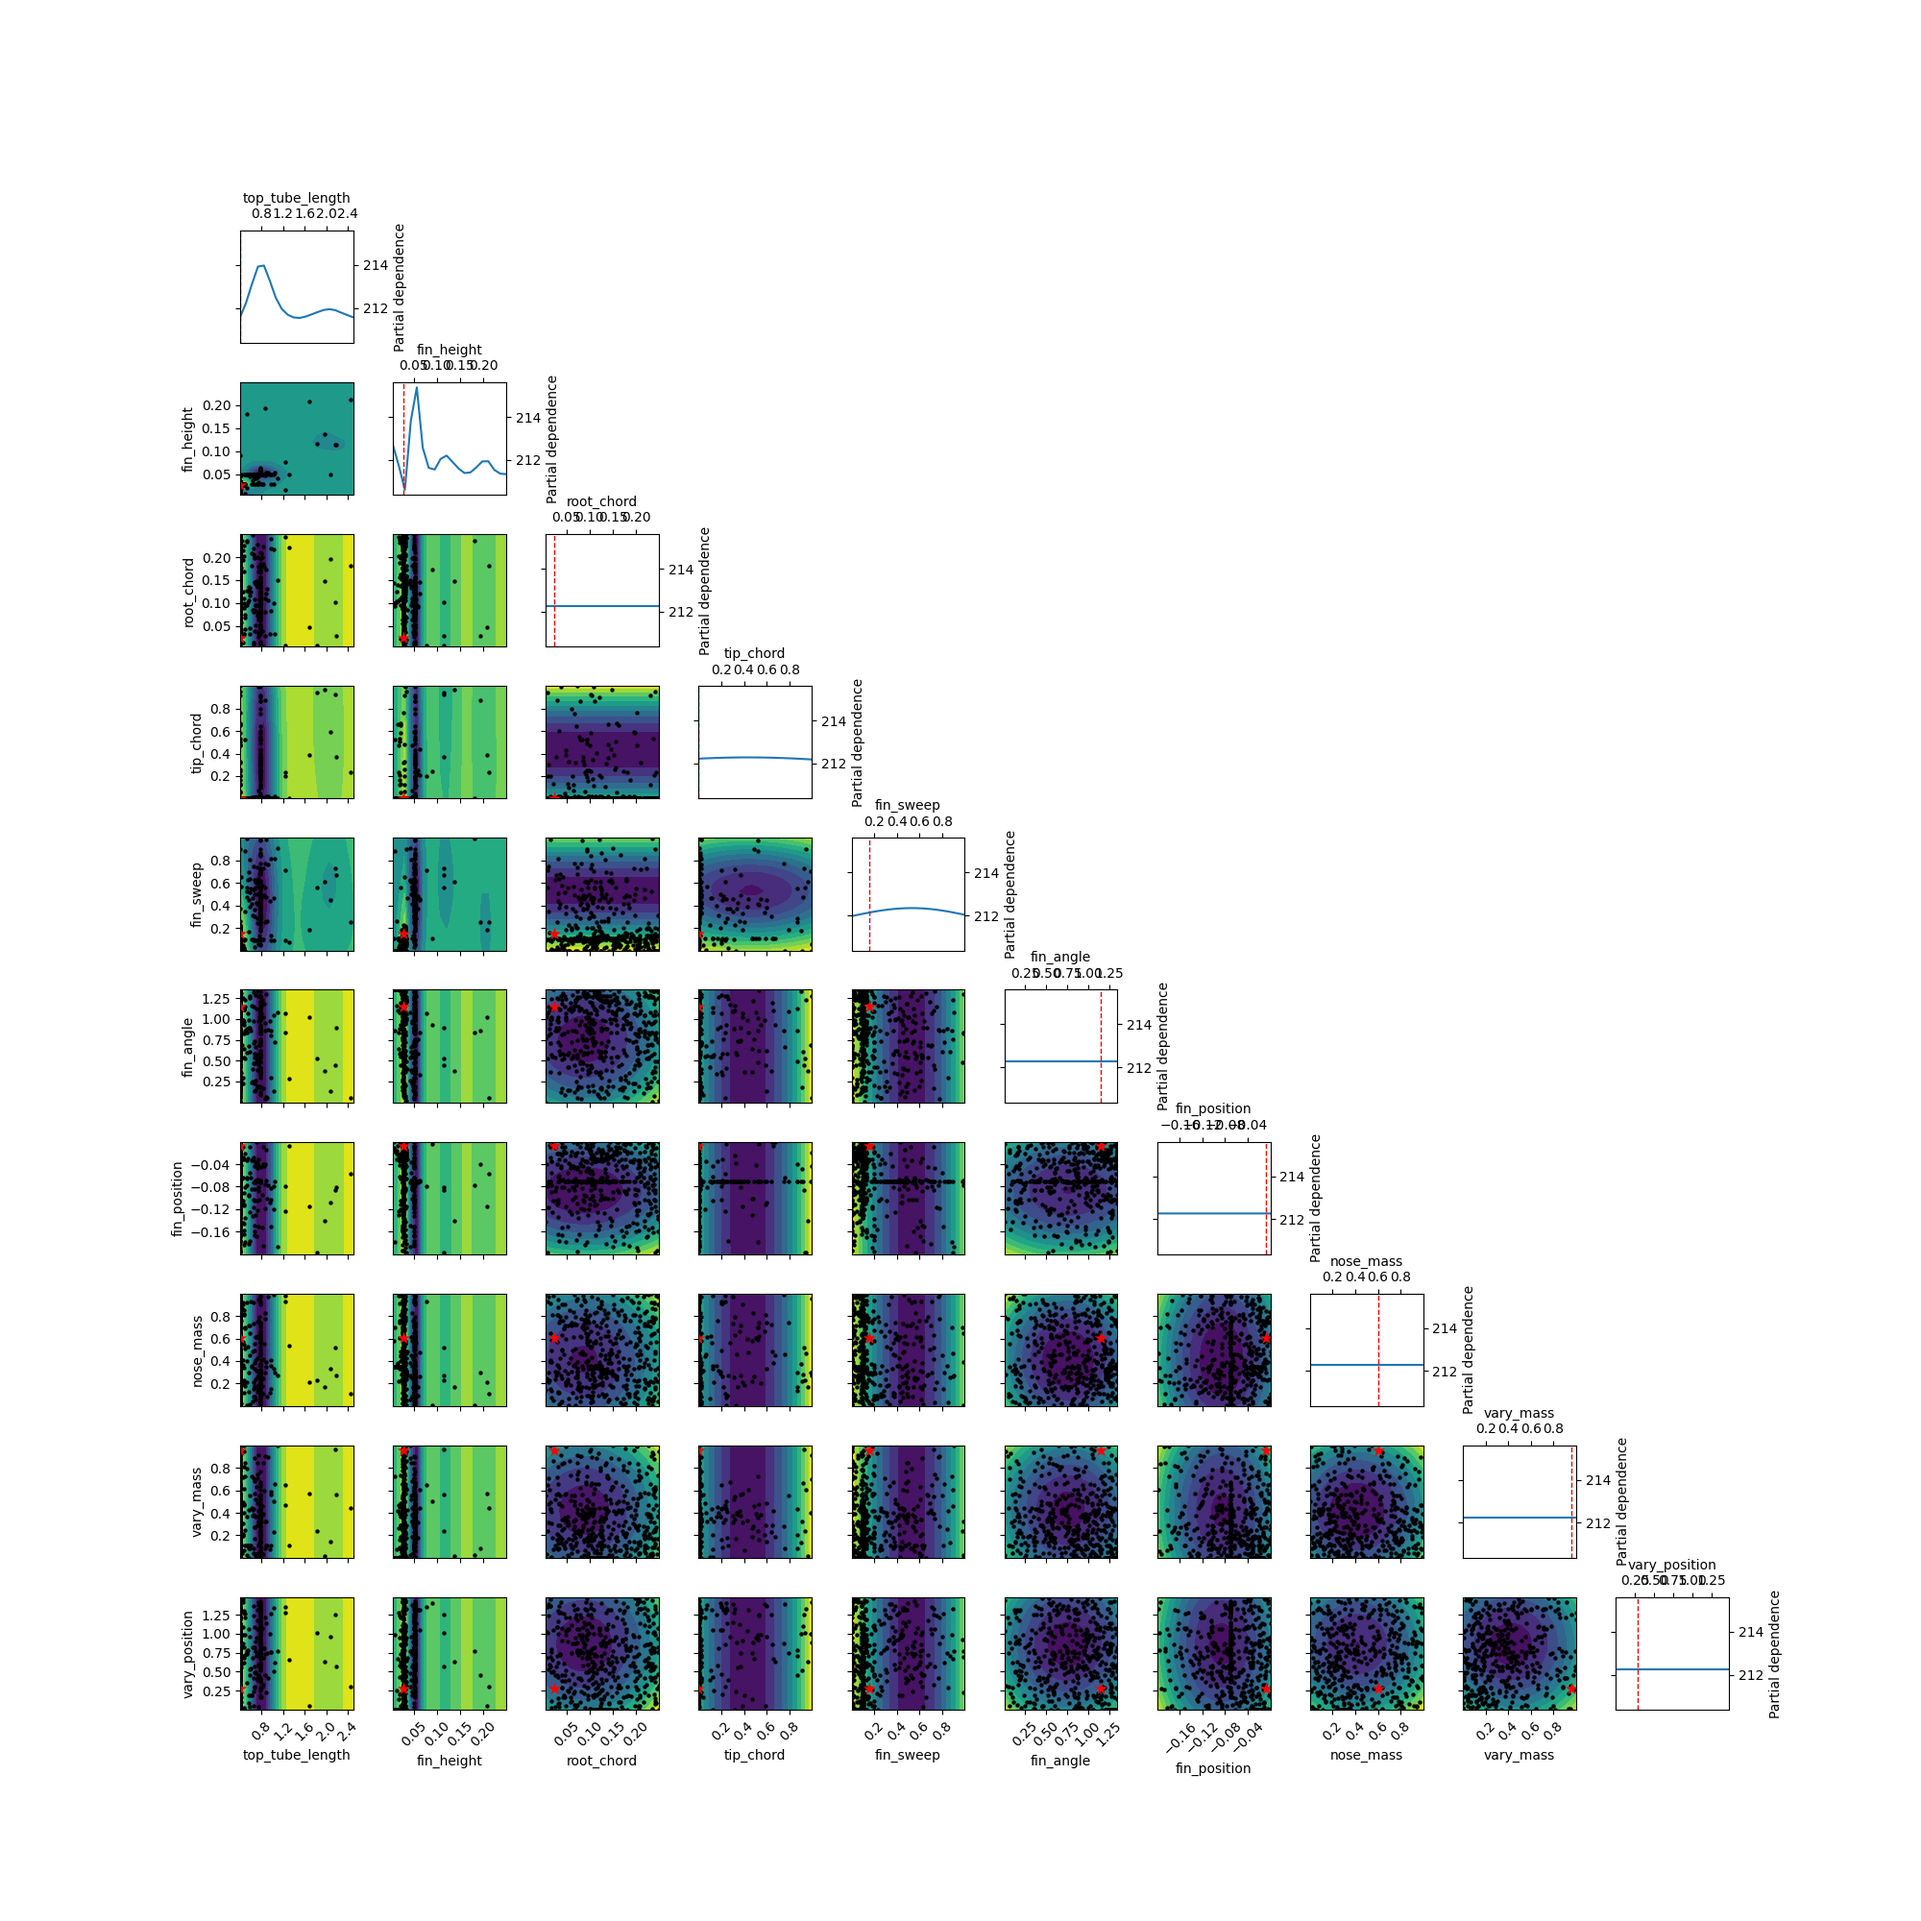
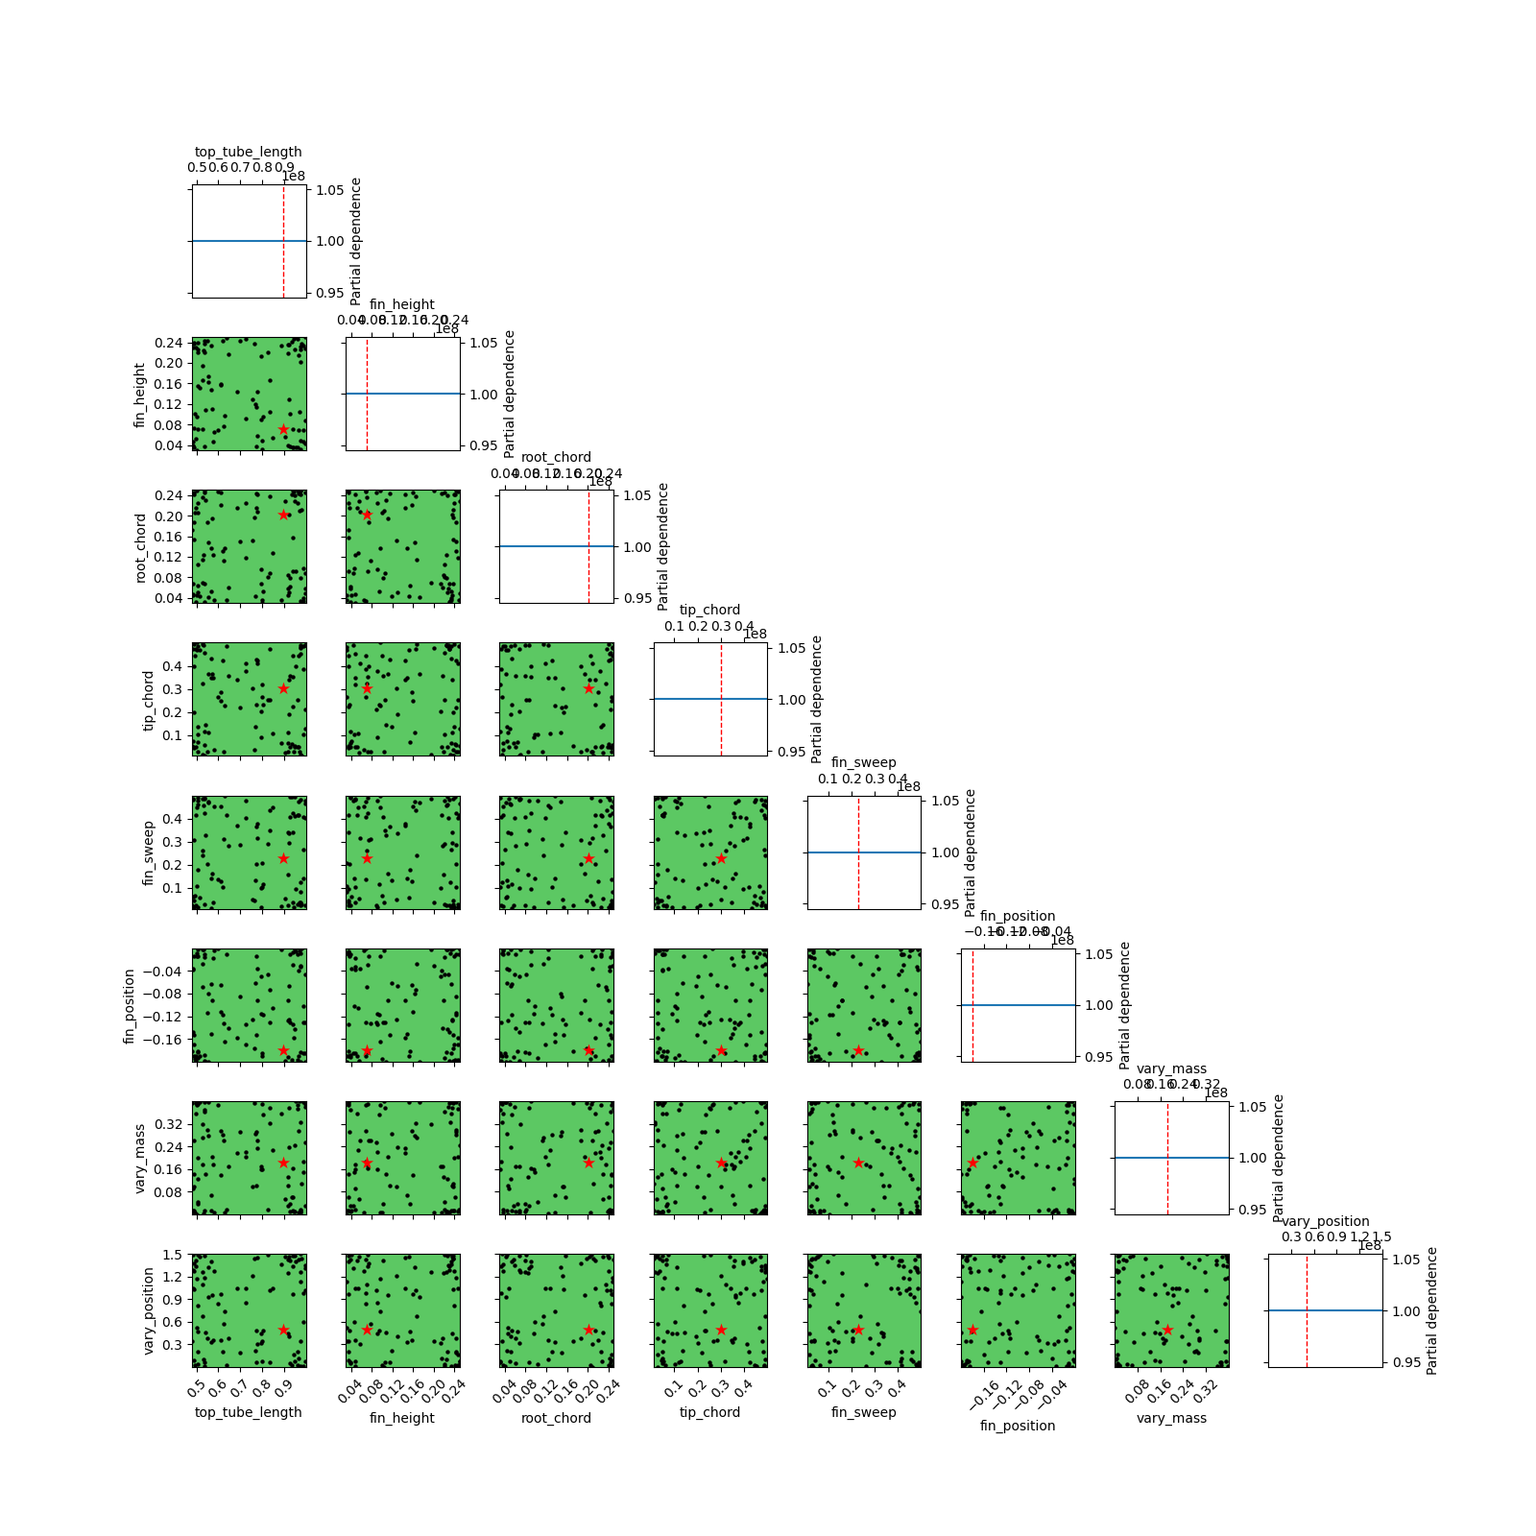
fix for search space and inplict geometry and testing func

Changed region(s): [[0.0625, 0.0938, 0.9375, 0.9375]]

diff --git a/Optimizer.py b/Optimizer.py
@@ -32,15 +32,15 @@ class Optimizer:
         self.setup_components(self.rocket)
         # Search Space
         self.space = [
-            Real(0.48, 2.5, name='top_tube_length'),    # Tube m
-            Real(0.005, 0.25, name='fin_height'),     # Height m
-            Real(0.005, 0.25, name='root_chord'),   # Root Chord m
-            Real(0.005, 1.0, name='tip_chord'),      # Tip Chord m
-            Real(0.005, 1.0, name='fin_sweep'),      # Sweep m
-            Real(0.0, 1.3, name='fin_angle'),      # Angle rads
+            Real(0.48, 1, name='top_tube_length'),    # Tube m
+            Real(0.03, 0.25, name='fin_height'),     # Height m
+            Real(0.03, 0.25, name='root_chord'),   # Root Chord m
+            Real(0.01, 0.5, name='tip_chord'),      # Tip Chord m
+            Real(0.01, 0.5, name='fin_sweep'),      # Sweep m
+            # Real(0.0, 1.3, name='fin_angle'),      # Angle rads
             Real(-0.20, 0.0, name='fin_position'),   # Position m (Negative is forward)
             # Real(0.0, 1.0, name='nose_mass'),      # Nose Mass kg
-            Real(0.0, 1.0, name='vary_mass'),      # Vary Mass kg
+            Real(0.0, 0.4, name='vary_mass'),      # Vary Mass kg
             Real(0.0, self.rocket.getLength(), name='vary_position')       # Position m
         ]
 
@@ -64,22 +64,28 @@ class Optimizer:
 
         @use_named_args(self.space)
         def objective_function(top_tube_length, fin_height, root_chord, tip_chord, 
-                               fin_sweep, fin_angle, fin_position, vary_mass, vary_position):
+                               fin_sweep, fin_position, vary_mass, vary_position):
             # Mod Rocket
             try:
                 # --- TUBE ---
                 tube = self.get_component("Top Tube")
                 if tube: 
                     tube.setLength(top_tube_length)
+                    if tube.getLength() != top_tube_length:
+                        print(f"⚠ Warning: Tube length not set correctly. Expected {top_tube_length}, got {tube.getLength()}") 
+                else:
+                    print(f"❌ ERROR: Could not find component top tube")
 
                 # --- FINS ---
                 fins = self.get_component("Trapezoidal Fin Set")
                 if fins:
                     fins.setHeight(fin_height)
                     fins.setRootChord(root_chord)
+                    if fins.getRootChord() != root_chord:
+                        print(f"⚠ Warning: Root chord not set correctly. Expected {root_chord}, got {fins.getRootChord()}")    
                     fins.setTipChord(tip_chord)
                     fins.setSweep(fin_sweep)
-                    fins.setCantAngle(fin_angle) 
+                    # fins.setCantAngle(fin_angle) 
                     # Set Position (Relative to BOTTOM)
                     parent = fins.getParent()
                     if parent:
@@ -87,6 +93,8 @@ class Optimizer:
                         pos_from_top = tube_len + fin_position - root_chord
                         if pos_from_top < 0: pos_from_top = 0 
                         fins.setAxialOffset(pos_from_top)
+                else:
+                    print("❌ ERROR: Could not find component Trapezoidal Fin Set")
 
                 # # --- NOSE BALLAST ---
                 # ballast = self.get_component("Nose Mass")
@@ -94,10 +102,13 @@ class Optimizer:
                 #     ballast.setMass(nose_mass)
 
                 # --- Vary Mass & Position ---
-                custom_vary_mass= self.get_component("Vary Mass")
+                custom_vary_mass = self.get_component("Var Mass")
                 if custom_vary_mass:
-                    custom_vary_mass.setMass(vary_mass)
+                    custom_vary_mass.setMassOverridden(True)
+                    custom_vary_mass.setOverrideMass(vary_mass)
                     custom_vary_mass.setAxialOffset(vary_position)
+                else:
+                    print("❌ ERROR: Could not find component Vary Mass")
 
             except Exception as e:
                 print(f"❌ Design Error: {e}")
@@ -105,6 +116,7 @@ class Optimizer:
 
             # Run Simulation
             try:
+                self.sim = self.doc.getSimulation(0) # Reset sim to clear old data
                 self.orh.run_simulation(self.sim)
                 data = self.sim.getSimulatedData().getBranch(0)
                 
@@ -114,26 +126,45 @@ class Optimizer:
                 vel_arr = np.array(data.get(self.FlightDataType.TYPE_VELOCITY_TOTAL))
                 
                 apogee = max(alt_arr)
+                if apogee < 100:
+                    return 100000000
                 nonlocal best_apogee
                 if apogee > best_apogee:
                     best_apogee = apogee
             except Exception as e:
                 print(f"❌ Simulation Error: {e}")
-                return 99999.0
 
-            # 3. Calculate Loss (Distance from Target)
+            # Calculate Loss (Distance from Target)
             loss = abs(apogee - TARGET_ALTITUDE)
 
             sim_config = self.sim.getOptions()
-            rail_length = sim_config.getLaunchRodLength() # Returns length in meters
+            rail_length = sim_config.getLaunchRodLength()
             rail_indices = np.where(alt_arr >= rail_length)[0]
 
             if len(rail_indices) > 0:
                 launch_stab = stab_arr[rail_indices[0]]
+            else:
+                launch_stab = -10.0
 
-            # Penalty: Unstable (< 1.5 cal)
-            if launch_stab < 1.9:
-                loss += 5000 * (1.9 - launch_stab) ** 2
+            # If OpenRocket failed to calculate stability, it returns NaN.
+            # We must treat this as a CRITICAL FAILURE.
+            if np.isnan(launch_stab):
+                print("⚠ Stability is NaN (Math Error) - Penalizing!")
+                return 100000000.0 # Instant Death Penalty
+
+            # Penalty: Unstable
+            if launch_stab < 1.8:
+                 loss += 50000 * (1.8 - launch_stab) ** 2
+
+            # Constraint: Sweep length cannot be more than 2x the Root Chord
+            if fin_sweep > (root_chord * 2.0):
+                penalty = (fin_sweep - (root_chord * 2.0)) * 5000
+                loss += penalty
+
+            # Penalty grows as the violation gets worse
+            if tip_chord > 2 * root_chord:
+                penalty = (tip_chord - 2 * root_chord) * 10000 
+                loss += penalty
 
             return loss
 
@@ -142,9 +173,98 @@ class Optimizer:
             objective_function,
             self.space,
             n_calls=iterations,            
-            n_random_starts=int(iterations * 0.75),
+            n_random_starts=int(iterations * 0.5),
             noise=1e-6,            
             random_state=42        
         )
 
         return (res, best_apogee)
+    
+    # --- ADD THIS TO Optimizer.py ---
+    def verify_and_save(self, best_params, filename="optimized_rocket.ork"):
+        print("\n" + "="*40)
+        print("🔍 VERIFYING BEST SOLUTION")
+        print("="*40)
+
+        # 1. UNPACK PARAMETERS
+        # ⚠ CRITICAL: This must match the order in self.space EXACTLY
+        # If you switched to Ratios, update these variable names!
+        top_tube_length, fin_height, root_chord, tip_chord, \
+        fin_sweep, fin_position, vary_mass, vary_position = best_params
+
+        print(f"📝 Applying parameters:\n"
+              f"   - Tube Len: {top_tube_length:.3f} m\n"
+              f"   - Fin Root: {root_chord:.3f} m\n"
+              f"   - Fin Tip:  {tip_chord:.3f} m\n"
+              f"   - Sweep:    {fin_sweep:.3f} m")
+
+        # 2. APPLY TO ROCKET (Same logic as objective_function)
+        # --- TUBE ---
+        tube = self.get_component("Top Tube") # Verify this name!
+        if tube: tube.setLength(top_tube_length)
+
+        # --- FINS ---
+        fins = self.get_component("Trapezoidal Fin Set") # Verify this name!
+        if fins:
+            fins.setHeight(fin_height)
+            fins.setRootChord(root_chord)
+            fins.setTipChord(tip_chord)
+            fins.setSweep(fin_sweep)
+            
+            # Position Logic
+            parent = fins.getParent()
+            if parent:
+                tube_len = parent.getLength()
+                pos_from_top = tube_len + fin_position - root_chord
+                if pos_from_top < 0: pos_from_top = 0
+                fins.setAxialOffset(pos_from_top)
+
+        # --- MASS ---
+        mass_comp = self.get_component("Var Mass") # Verify this name!
+        if mass_comp:
+            mass_comp.setMassOverridden(True)
+            mass_comp.setOverrideMass(vary_mass)
+            mass_comp.setAxialOffset(vary_position)
+
+        # 3. REFRESH & RUN SIMULATION
+        self.sim = self.doc.getSimulation(0) # Get fresh sim instance
+        self.sim.getOptions().setLaunchRodLength(1) 
+        
+        print("🏃 Running Final Simulation...")
+        self.orh.run_simulation(self.sim)
+        data = self.sim.getSimulatedData().getBranch(0)
+
+        # 4. EXTRACT FINAL STATS
+        alt = data.get(self.FlightDataType.TYPE_ALTITUDE)
+        vel = data.get(self.FlightDataType.TYPE_VELOCITY_TOTAL)
+        stab = data.get(self.FlightDataType.TYPE_STABILITY)
+        
+        apogee = max(alt)
+        max_vel = max(vel)
+        max_mach = max_vel / 343.0
+        
+        # Calculate Stability off the Rail
+        rail_len = self.sim.getOptions().getLaunchRodLength()
+        rail_indices = [i for i, h in enumerate(alt) if h >= rail_len]
+        
+        if rail_indices:
+            rail_exit_stab = stab[rail_indices[0]]
+            rail_exit_vel = vel[rail_indices[0]]
+        else:
+            rail_exit_stab = 0.0
+            rail_exit_vel = 0.0
+
+        # 5. PRINT REPORT
+        print("-" * 30)
+        print(f"✅ FINAL RESULTS:")
+        print(f"   🎯 Apogee:         {apogee:.2f} m  ({(apogee*3.28084):.0f} ft)")
+        print(f"   ⚖ Launch Stab:    {rail_exit_stab:.2f} cal")
+        print(stab)
+        print(f"   💨 Max Velocity:   {max_vel:.1f} m/s (Mach {max_mach:.2f})")
+        print(f"   🚀 Rail Exit Vel:  {rail_exit_vel:.1f} m/s")
+        print("-" * 30)
+
+        # 6. SAVE FILE
+        print(f"💾 Saving optimized design to '{filename}'...")
+        self.doc.save(filename)
+        print("Done.")

diff --git a/UiTools.py b/UiTools.py
@@ -15,18 +15,18 @@ def report_results(results):
     # Geometry (Tube & Fins)
     print("🚀 GEOMETRY")
     print(f"   Tube Length:      {results.x[0]*100:.2f} cm")
-    print(f"   Fin Span:         {results.x[1]*100:.2f} cm")
+    print(f"   Fin Height:         {results.x[1]*100:.2f} cm")
     print(f"   Root Chord:       {results.x[2]*100:.2f} cm")
     print(f"   Tip Chord:        {results.x[3]*100:.2f} cm")
     print(f"   Fin Sweep:        {results.x[4]*100:.2f} cm")
-    print(f"   Fin Cant Angle:   {math.degrees(results.x[5]):.2f}° ({results.x[5]:.3f} rad)")
-    print(f"   Fin Position:     {results.x[6]*100:.2f} cm (Relative)")
+    # print(f"   Fin Cant Angle:   {math.degrees(results.x[5]):.2f}° ({results.x[5]:.3f} rad)")
+    print(f"   Fin Position:     {results.x[5]*100:.2f} cm (Relative)")
 
     # Mass & Balance
     print("\n⚖ MASS & BALANCE")
     # print(f"   Nose Ballast:     {results.x[7]*1000:.0f} g")
-    print(f"   Var Mass:     {results.x[7]*1000:.0f} g")
-    print(f"   Var Position: {results.x[8]*100:.2f} cm")
+    print(f"   Var Mass:     {results.x[6]*1000:.0f} g")
+    print(f"   Var Position: {results.x[7]*100:.2f} cm")
     
     print("-" * 50)
     print(f"🎯 Predicted Error:  {results.fun:.4f} (Objective Score)")
@@ -54,3 +54,14 @@ def report_results(results):
     plt.close()
     
     print("✅ Done! Check your project folder for the .png files.")
+
+
+    def print_rocket_tree(rocket):
+        print("\n🌳 ROCKET COMPONENT TREE (Copy these names!):")
+        for component in rocket.getChildren():
+            print(f"   📂 {component.getName()}")
+            for child in component.getChildren():
+                print(f"      🔹 {child.getName()}")
+                for subchild in child.getChildren():
+                    print(f"         🔸 {subchild.getName()}")
+        print("-" * 40 + "\n")

diff --git a/main.py b/main.py
@@ -24,12 +24,23 @@ try:
             print("Please save a rocket design in this folder to test.")
         else:
             print(f"Loaded rocket")
+            # orh = orhelper.Helper(instance)
+            # doc = orh.load_doc(str(ROCKET_FILE))
+            # sim = doc.getSimulation(0)
+
             # Run the Optimizer
             Opt = Optimizer(instance, str(ROCKET_FILE))
-            results = Opt.run_optimizer(TARGET_ALTITUDE, iterations=250)
-            print(f"✅ Optimization Complete! Best Apogee: {results[1]} m")
+            results = Opt.run_optimizer(TARGET_ALTITUDE, iterations=100)
+    
             # Report Results
             UiTools.report_results(results[0])
+            
+            # RUN FINAL VERIFICATION & SAVE
+            # results[0].x contains the list of best parameters found
+            best_parameters = results[0].x
+            
+            # Call the new function we just wrote
+            Opt.verify_and_save(best_parameters, "ALC_Optimized_Final.ork")
 
 except Exception as e:
     print(f"❌ Error: {e}")
